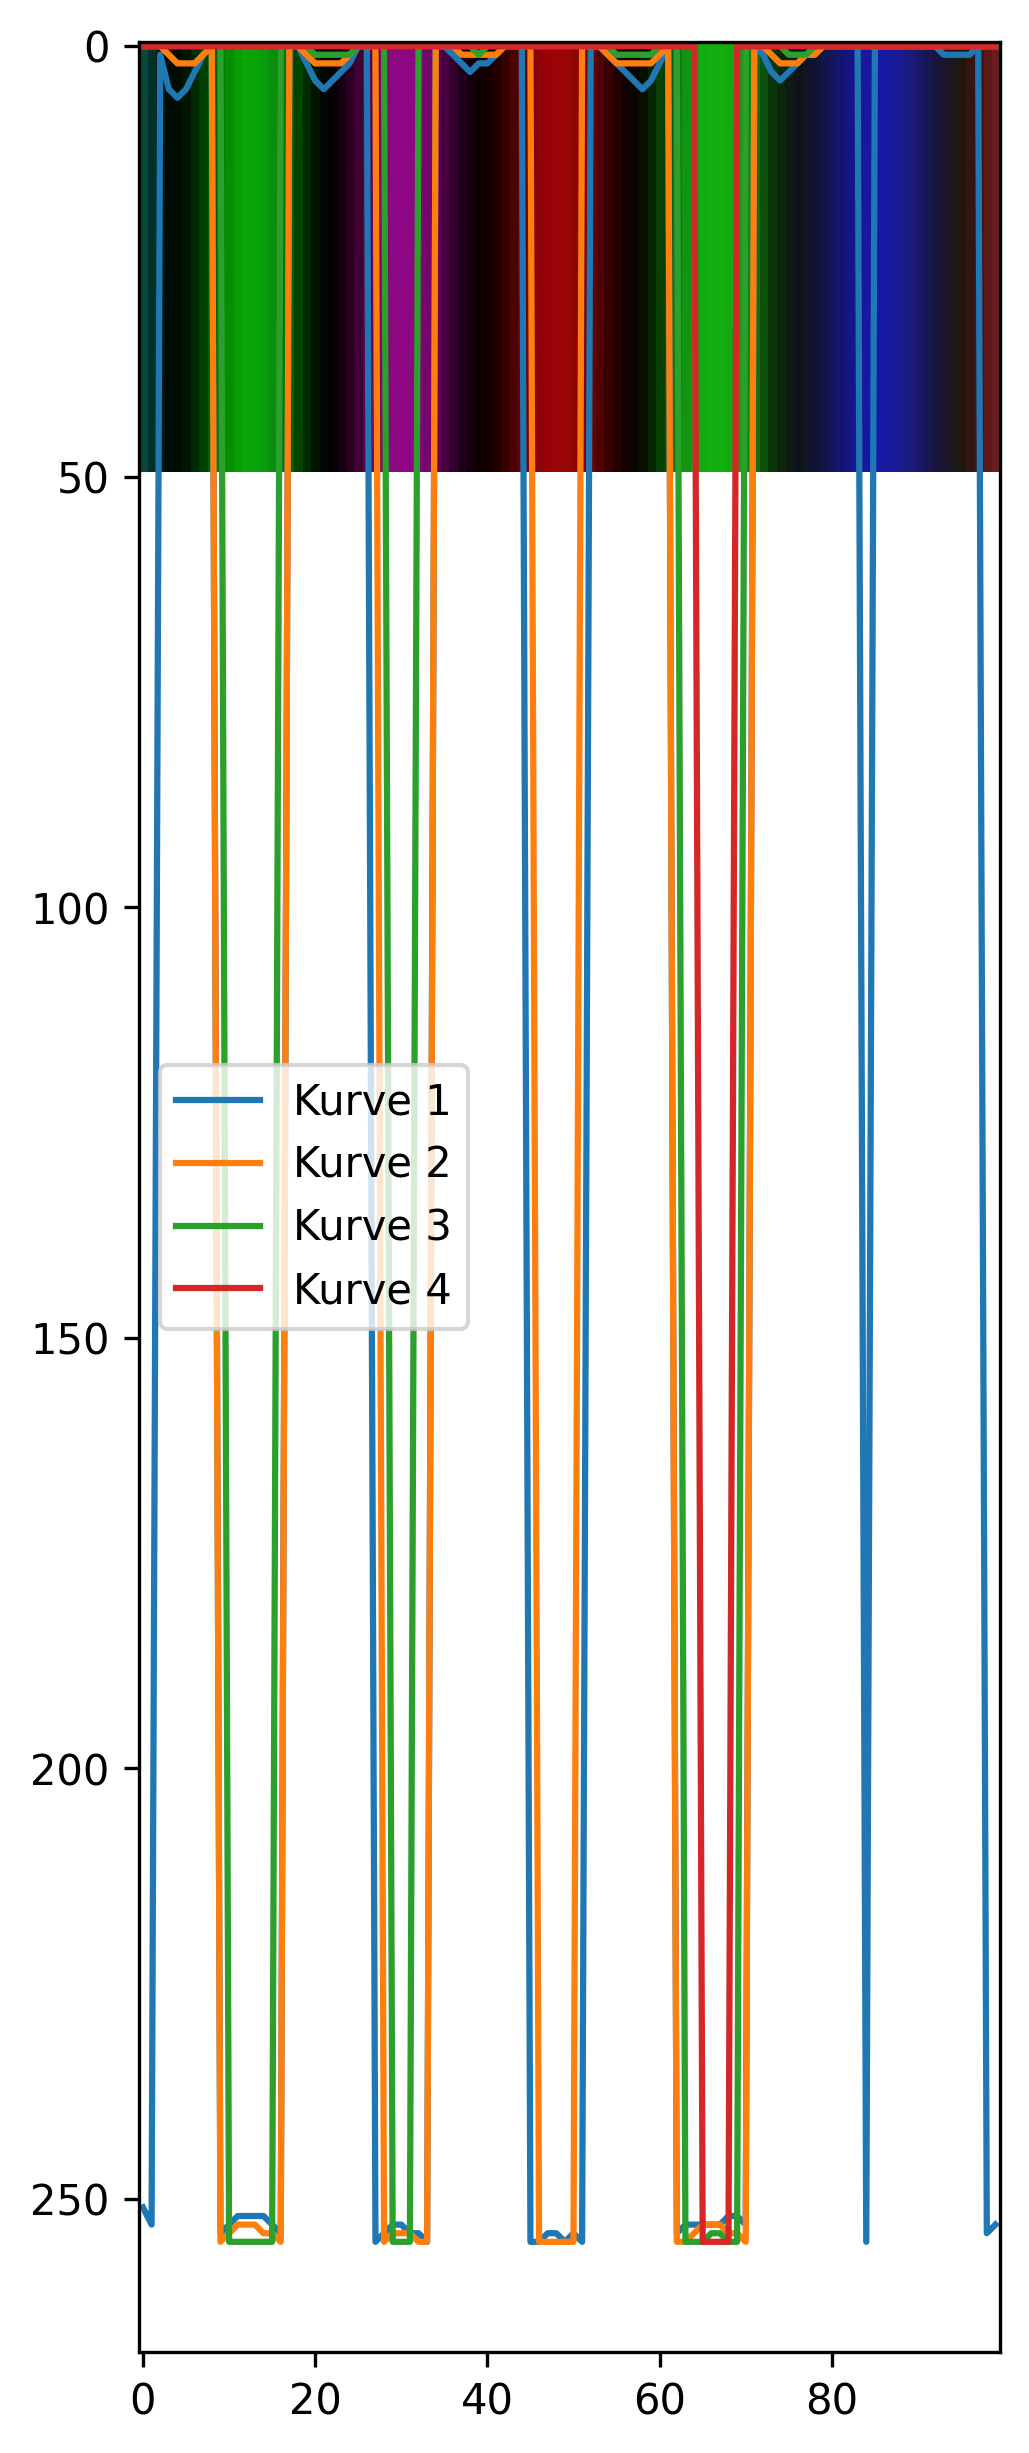
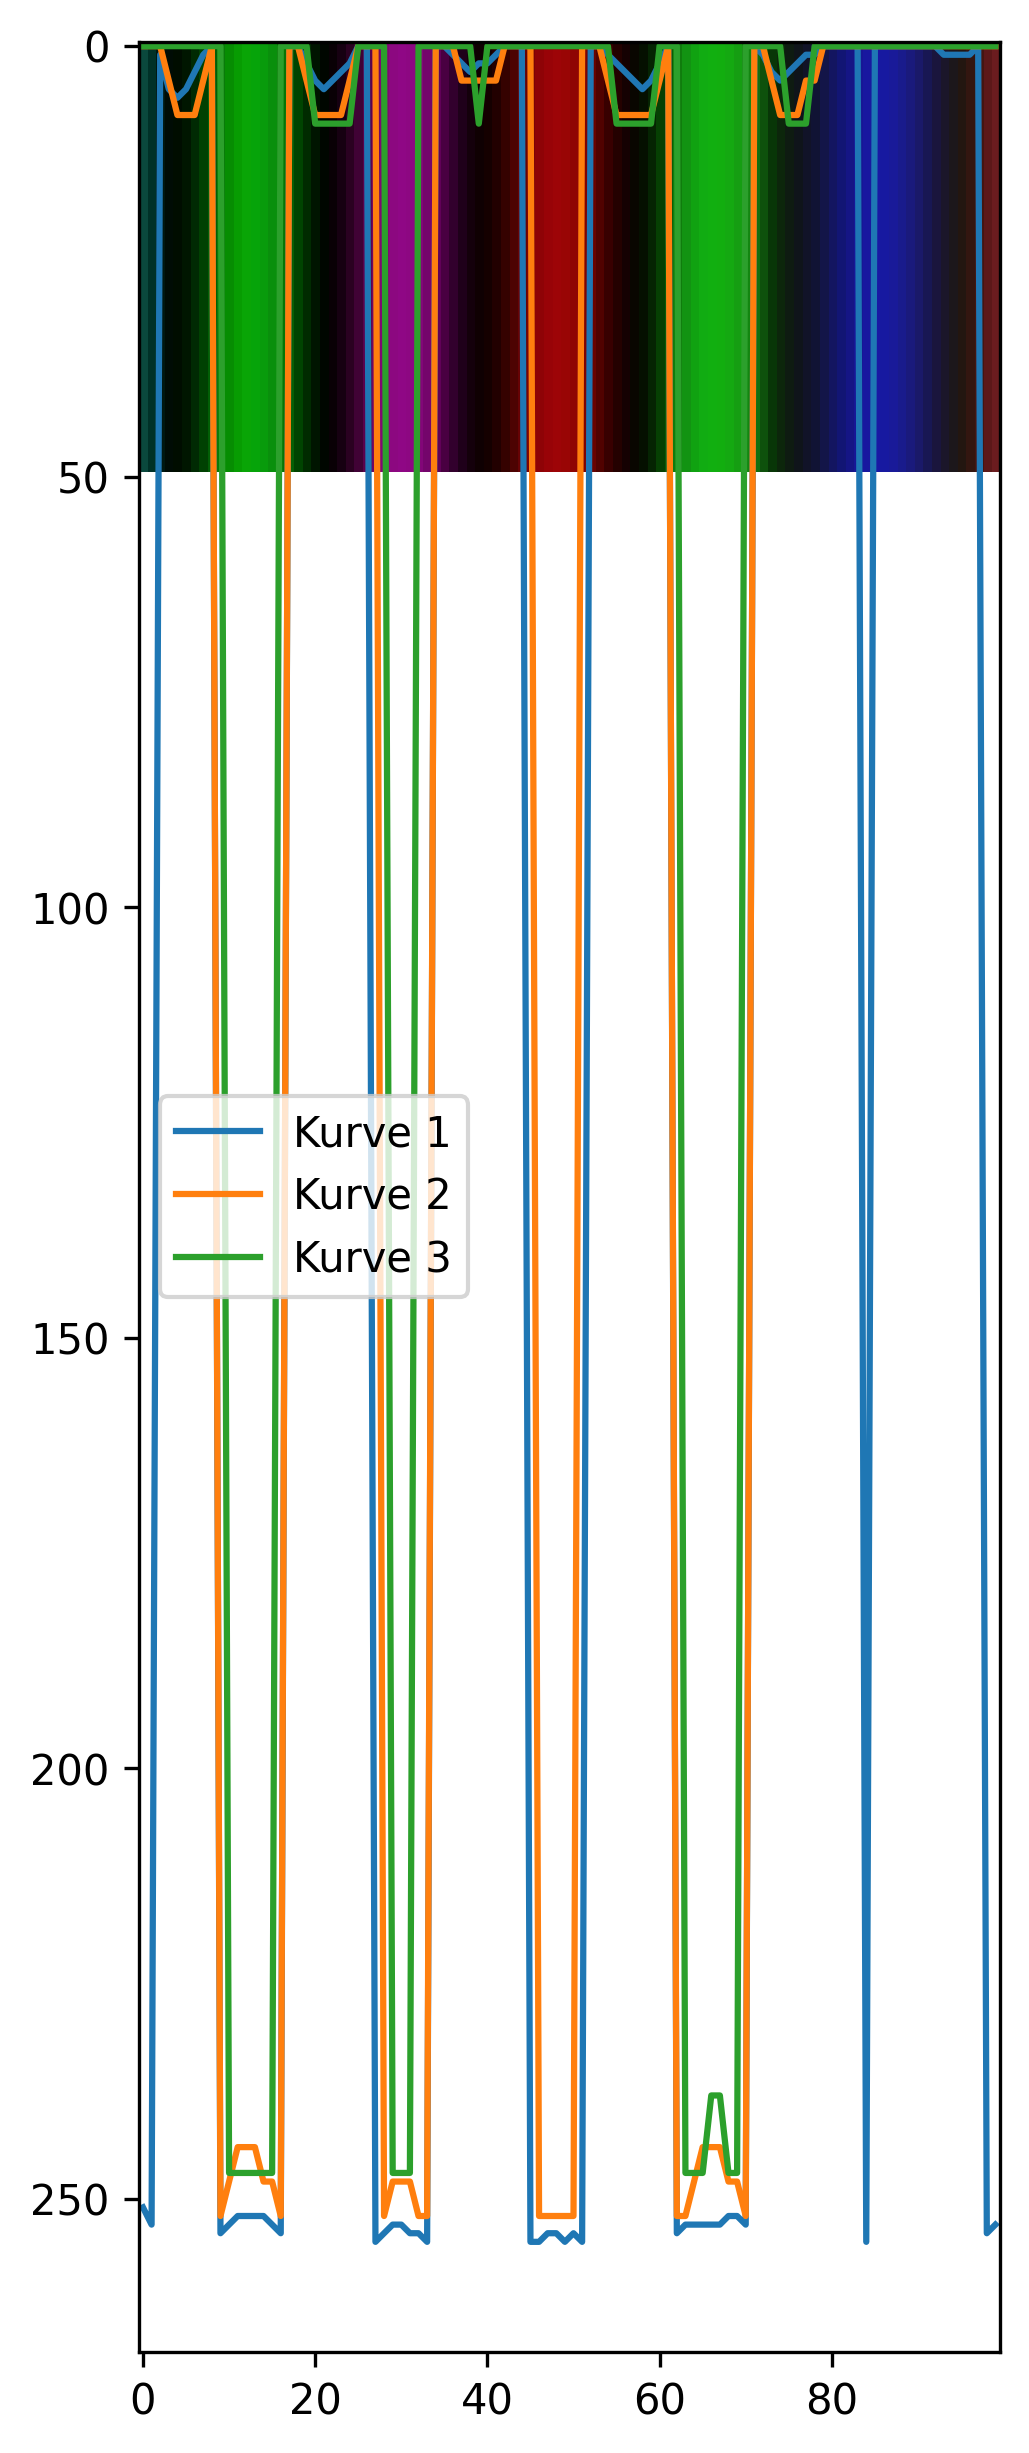
updated blur_test

diff --git a/blur_test/stripeDetectionManySigma.py b/blur_test/stripeDetectionManySigma.py
@@ -8,7 +8,7 @@ import os
 import time
 
 test_img_num = 6
-sigmas = [1, 2, 3, 4]
+sigmas = [1, 2, 3]
 save_plot = True
 save_img = True
 one_line = True
@@ -124,25 +124,24 @@ def img_lambda(I_sigmas):       # Lambdas berechnen
         Iyy = gaussian_filter(I_sigma, sigma=sigmas[count], order=(2,0))
         Ixx = gaussian_filter(I_sigma, sigma=sigmas[count], order=(0,2))
         Ixy = gaussian_filter(I_sigma, sigma=sigmas[count], order=(1,1))
+        
+        # da Große Sigma werden systematisch benachteiligt werden
+        Ixx *= sigmas[count]**2
+        Iyy *= sigmas[count]**2
+        Ixy *= sigmas[count]**2
         count += 1
         
+        tmp1 = (Ixx + Iyy) / 2.0
+        tmp2 = np.sqrt(((Ixx - Iyy)/2)**2 + (Ixy**2))
+        lambda1 = tmp1 + tmp2
+        lambda2 = tmp1 - tmp2
+        lambdas.append((lambda1, lambda2))
+        
+        # Um alle Ableitungen plotten zu können
         Ixxs.append(Ixx)
         Iyys.append(Iyy)
         Ixys.append(Ixy)
-
     plot_array_over_img(Ixxs, "2_Ableitungen", True, I_RGB)
-
-    Ixx = np.maximum.reduce(Ixxs)
-    Iyy = np.maximum.reduce(Iyys)
-    Ixy = np.maximum.reduce(Ixys)
-    # Eigenwerte der 2x2-Hessian-Matrix:
-    tmp1 = (Ixx + Iyy) / 2.0
-    tmp2 = np.sqrt(((Ixx - Iyy)/2)**2 + (Ixy**2))
-    lambda1 = tmp1 + tmp2
-    lambda2 = tmp1 - tmp2
-    lambdas.append((lambda1, lambda2))
-    
-    plot_array_over_img(Ixx, "2_Ableitung", False, I_RGB)
     return lambdas
 
 def img_vesselness(lambdas, alpha, beta): # erstellt vesselness map
@@ -150,30 +149,30 @@ def img_vesselness(lambdas, alpha, beta): # erstellt vesselness map
     V_all = []
 
     for lambda1, lambda2 in lambdas:
-
         # 1) Sortieren: |λ1| >= |λ2|
         l1 = lambda1
         l2 = lambda2
         switch = np.abs(lambda2) > np.abs(lambda1)
         l1, l2 = np.where(switch, lambda2, lambda1), np.where(switch, lambda1, lambda2)
-
+        
         # 2) Vesselness-Formel
-        #R = abs((l2 / (l1 + eps)))
-        R = (l2 / (l1 + eps))**2
+        mask = l1 > 0
+        R = abs(l2 / (l1 + eps))
         S = l1**2 + l2**2
-
-        V = np.sign(-l1) * np.exp(-alpha * R) * (1 - np.exp(-beta * S))
-
+        V = np.zeros_like(l1)
+        V[mask] = np.exp(-alpha * R[mask]) * (1 - np.exp(-beta * S[mask]))
+        
         V_all.append(V)
-
     plot_array(V_all,"img" + str(test_img_num) + "_V_all.png", True)
-
+    plot_array_over_img(V_all, "img" + str(test_img_num) + "_V_all_img", True, I_RGB)
+    
     # Multi-scale Vesselness -> Pixelweises Maximum über alle sigma
     V_all = np.stack(V_all, axis=0)
-    
     V_max = np.max(V_all, axis=0)
+    
     if save_plot:
         plot_array(V_max, "img" + str(test_img_num) + "_V_max.png", False)
+        plot_array_over_img(V_max, "img" + str(test_img_num) + "_V_max_img", False, I_RGB)
 
     # Normierung
     V_norm = (V_max - np.min(V_max)) / (np.max(V_max) - np.min(V_max) + eps)
@@ -184,7 +183,7 @@ def img_vesselness(lambdas, alpha, beta): # erstellt vesselness map
 
 def plot_stripes(V_norm):   # stellt vessellnesmap als schwarz weiß bild dar
     plt.figure(figsize=(10,5))
-    plt.imshow(V_norm, cmap='gray')
+    #plt.imshow(V_norm, cmap='gray')
     plt.title("Vesselness Map (Streifen erkannt)")
     plt.axis('off')
     folder = os.path.dirname(os.path.abspath(__file__))

diff --git a/many/stripeDetectionManySigma.py b/many/stripeDetectionManySigma.py
@@ -6,7 +6,7 @@ from scipy.signal import find_peaks
 import os
 import time
 
-test_img_num = 5
+test_img_num = 6
 sigmas = [4.5, 5.0]
 save_plot = True
 one_line = True
@@ -40,7 +40,12 @@ def img_lambda(I_sigmas):
         tmp2 = np.sqrt(((Ixx - Iyy) / 2.0)**2 + Ixy**2)
         lambda1 = tmp1 + tmp2
         lambda2 = tmp1 - tmp2
-        lambdas.append((lambda1, lambda2))
+        
+        swap = np.abs(lambda2) > np.abs(lambda1)    # damit fpr jedes pixel lambda1 < lambda2 gilt
+
+        l1 = np.where(swap, lambda2, lambda1)
+        l2 = np.where(swap, lambda1, lambda2)
+        lambdas.append((l1, l2))
     
     return lambdas
 
@@ -54,8 +59,12 @@ def img_vesselness(lambdas, alpha, beta):
         
         R = (lambda2 / (lambda1 + eps)) ** 2
         S = lambda1**2 + lambda2**2
+        
+        V = np.zeros_like(lambda1)
 
-        V = np.sign(-lambda1) * np.exp(-alpha * R) * (1 - np.exp(-beta * S))
+        mask = lambda2 > 0   # Bedingung aus Frangi (helle Gefäße, 2D)
+
+        V[mask] = np.exp(-alpha * R[mask]) * (1 - np.exp(-beta * S[mask]))
 
         V_all.append(V)
 
@@ -231,7 +240,7 @@ else:
 stop = time.time()
 if one_line:
     time_per_stripe = stop - start2
-    print("Accuracy = " + str(test_accuracy(colorcombination, test_img_num)) + " %")
+    #print("Accuracy = " + str(test_accuracy(colorcombination, test_img_num)) + " %")
 else:
     time_per_stripe = (stop - start2)/V_norm.shape[0]
 
